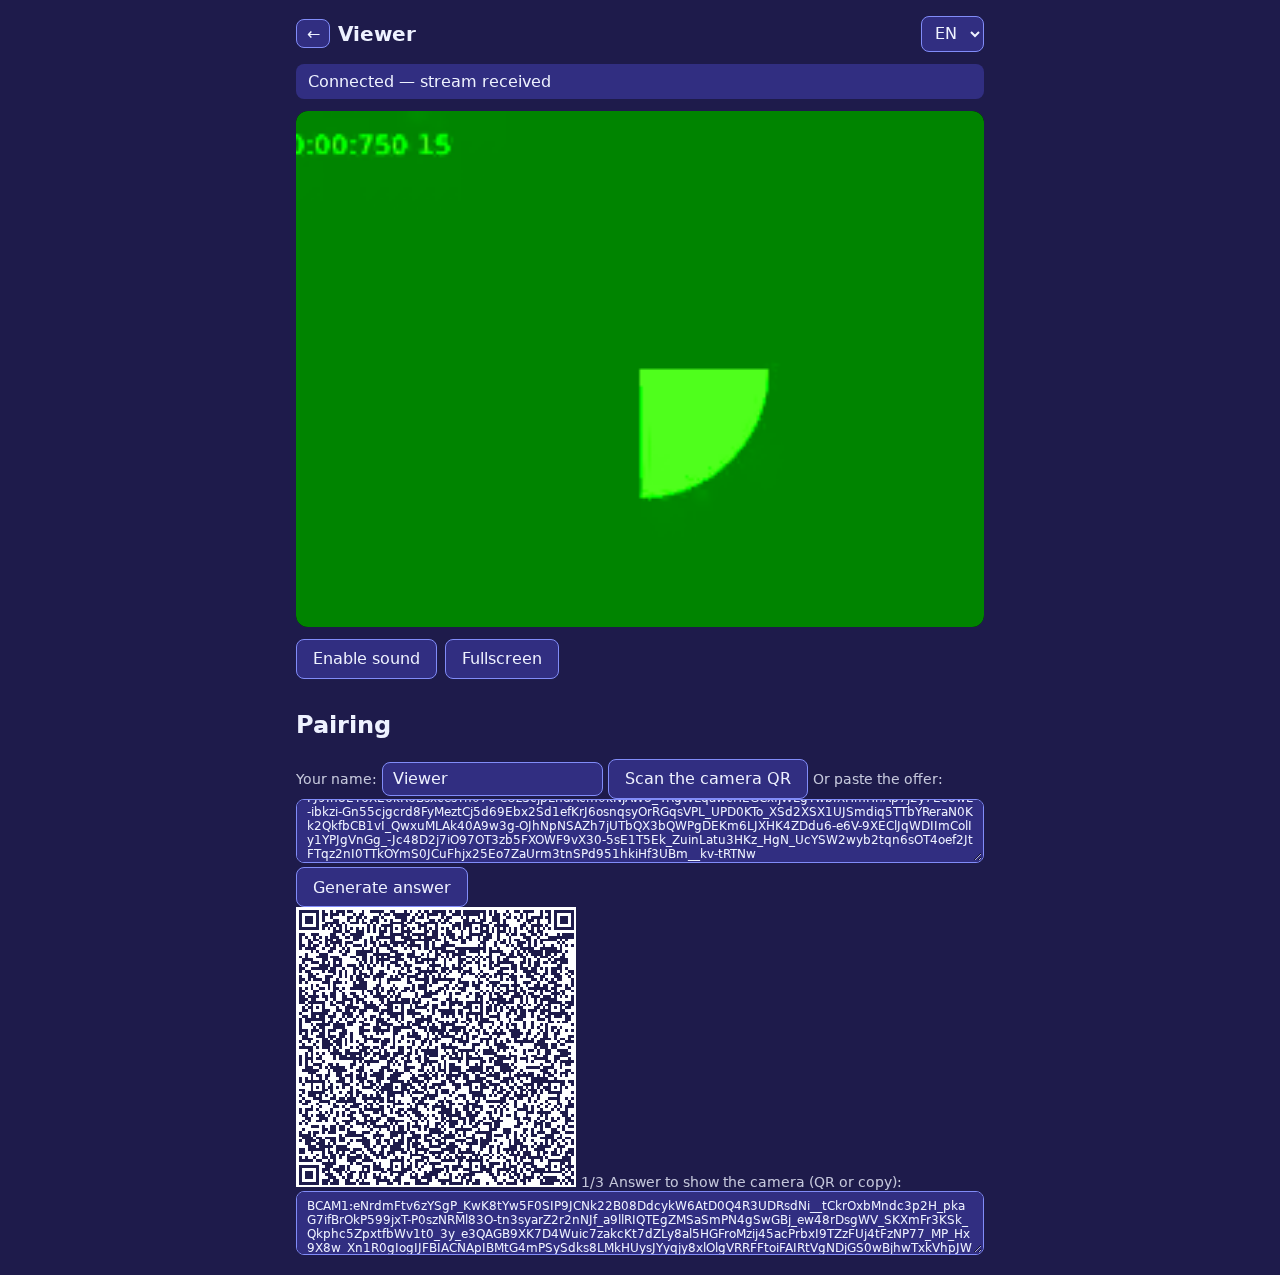
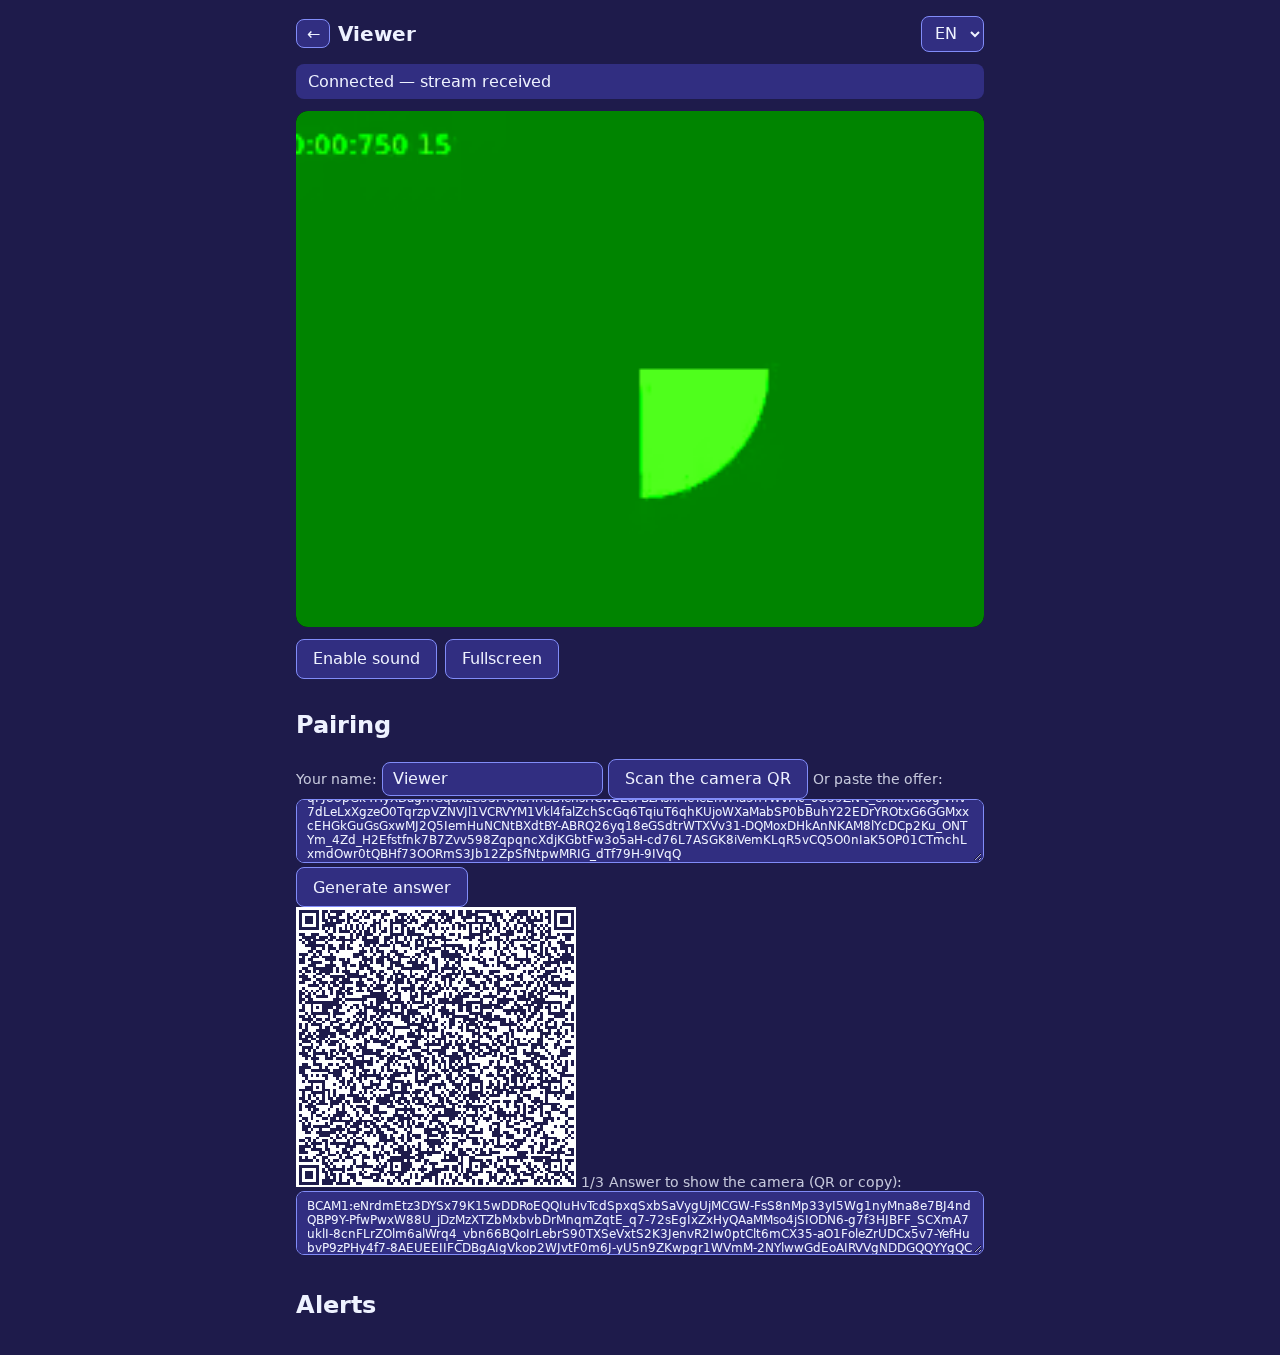
feat(I2.3): alertes de bout en bout côté viewer (bannière + son + vibration + historique), E2E

Changed region(s): [[0.2188, 0.4588, 0.7812, 1.0], [0.2188, 0.0, 0.7812, 0.1224], [0.5, 0.2447, 0.625, 0.3976]]

diff --git a/src/shared/alerts.ts b/src/shared/alerts.ts
@@ -1,0 +1,51 @@
+import { t } from './i18n';
+import type { AlertKind } from './webrtc';
+
+export function playAlertSound(): void {
+  try {
+    const ctx = new AudioContext();
+    const now = ctx.currentTime;
+    for (const start of [now, now + 0.25]) {
+      const osc = ctx.createOscillator();
+      const gain = ctx.createGain();
+      osc.frequency.value = 880;
+      gain.gain.setValueAtTime(0.2, start);
+      gain.gain.exponentialRampToValueAtTime(0.001, start + 0.18);
+      osc.connect(gain);
+      gain.connect(ctx.destination);
+      osc.start(start);
+      osc.stop(start + 0.2);
+    }
+    setTimeout(() => void ctx.close().catch(() => undefined), 1000);
+  } catch {
+    // audio indisponible : on ignore
+  }
+}
+
+export function vibrate(): void {
+  try {
+    navigator.vibrate?.([200, 100, 200]);
+  } catch {
+    // vibration indisponible
+  }
+}
+
+export function alertText(kind: AlertKind): string {
+  return t(kind === 'noise' ? 'alert.noise' : 'alert.motion');
+}
+
+export function showAlertBanner(banner: HTMLElement, kind: AlertKind): void {
+  banner.textContent = alertText(kind);
+  banner.hidden = false;
+  setTimeout(() => {
+    banner.hidden = true;
+  }, 5000);
+}
+
+export function pushAlertHistory(list: HTMLUListElement, kind: AlertKind, ts: number): void {
+  const li = document.createElement('li');
+  const time = new Date(ts).toLocaleTimeString();
+  li.textContent = `${time} — ${alertText(kind)}`;
+  list.prepend(li);
+  while (list.children.length > 20) list.lastElementChild?.remove();
+}

diff --git a/e2e/alerts.spec.ts b/e2e/alerts.spec.ts
@@ -1,0 +1,35 @@
+import { expect, test } from '@playwright/test';
+import { pairViaPaste, startCamera } from './pairing-helper';
+import { shot } from './helpers';
+
+test('alerte bruit de bout en bout : bannière + historique côté viewer', async ({ browser }) => {
+  const camCtx = await browser.newContext();
+  const viewCtx = await browser.newContext();
+  const cam = await camCtx.newPage();
+  const view = await viewCtx.newPage();
+
+  await startCamera(cam);
+  await pairViaPaste(cam, view);
+
+  await cam.evaluate(() => {
+    const bc = (window as unknown as { __babycam?: { sendToAll?: (m: unknown) => void } }).__babycam;
+    bc?.sendToAll?.({ type: 'alert', kind: 'noise', level: -18, ts: Date.now() });
+  });
+
+  await expect(view.locator('#alert-banner')).toBeVisible();
+  await expect(view.locator('#alert-banner')).toContainText(/bruit|noise/i);
+  await expect(view.locator('#alert-history li')).toHaveCount(1);
+  await shot(view, 'I2.3-viewer-alert');
+
+  await cam.evaluate(() => {
+    const bc = (window as unknown as { __babycam?: { sendToAll?: (m: unknown) => void } }).__babycam;
+    bc?.sendToAll?.({ type: 'alert', kind: 'motion', level: 12, ts: Date.now() });
+  });
+
+  await expect(view.locator('#alert-banner')).toContainText(/mouvement|motion/i);
+  await expect(view.locator('#alert-history li')).toHaveCount(2);
+  await shot(view, 'I2.3-viewer-alert-motion');
+
+  await camCtx.close();
+  await viewCtx.close();
+});

diff --git a/src/pages/viewer/main.ts b/src/pages/viewer/main.ts
@@ -4,6 +4,7 @@ import { createChunkCollector, decodeMessage, encodeMessage, toQrChunks, type Si
 import { QrScanner } from '../../shared/scanner';
 import { QrCarousel, qs } from '../../shared/ui';
 import { iceServersFromLocation, ViewerPeer, type DataMessage } from '../../shared/webrtc';
+import { playAlertSound, pushAlertHistory, showAlertBanner, vibrate } from '../../shared/alerts';
 
 applyTranslations();
 const langSelect = document.querySelector<HTMLSelectElement>('#lang-select');
@@ -22,6 +23,8 @@ const qrCanvasAnswer = qs<HTMLCanvasElement>('#qr-canvas-answer');
 const qrPosAnswer = qs<HTMLSpanElement>('#qr-pos-answer');
 const answerPayload = qs<HTMLTextAreaElement>('#answer-payload');
 const viewerName = qs<HTMLInputElement>('#viewer-name');
+const alertBanner = qs<HTMLDivElement>('#alert-banner');
+const alertHistory = qs<HTMLUListElement>('#alert-history');
 
 function setStatus(text: string): void {
   status.textContent = text;
@@ -64,6 +67,12 @@ async function applyOffer(): Promise<void> {
   };
   peer.onData = (m) => {
     dataLog.push(m);
+    if (m.type === 'alert') {
+      showAlertBanner(alertBanner, m.kind);
+      playAlertSound();
+      vibrate();
+      pushAlertHistory(alertHistory, m.kind, m.ts);
+    }
   };
   peer.onState = (state) => {
     if (state === 'connected') setStatus(t('viewer.status.connected'));

diff --git a/viewer.html b/viewer.html
@@ -19,6 +19,7 @@
         </select>
       </header>
       <p id="status" class="status" data-i18n="viewer.status.idle">Non appairé</p>
+      <div id="alert-banner" hidden></div>
       <video id="remote" autoplay playsinline></video>
       <div class="controls">
         <button id="unmute-btn" class="btn" data-i18n="viewer.unmute">Activer le son</button>
@@ -39,6 +40,10 @@
           <label class="hint" data-i18n="viewer.answerLabel">Réponse à montrer à la caméra (QR ou copier) :</label>
           <textarea id="answer-payload" readonly></textarea>
         </div>
+      </section>
+      <section id="alerts">
+        <h2 data-i18n="viewer.alerts">Alertes</h2>
+        <ul id="alert-history"></ul>
       </section>
     </main>
     <script type="module" src="./src/pages/viewer/main.ts"></script>

diff --git a/src/shared/i18n.ts b/src/shared/i18n.ts
@@ -47,6 +47,7 @@ export const DICTS: Record<Lang, Record<string, string>> = {
     'viewer.nameLabel': 'Votre nom :',
     'viewer.status.connected': 'Connecté — flux reçu',
     'viewer.status.lost': 'Connexion perdue',
+    'viewer.alerts': 'Alertes',
   },
   en: {
     'app.title': 'Babycam',
@@ -91,6 +92,7 @@ export const DICTS: Record<Lang, Record<string, string>> = {
     'viewer.nameLabel': 'Your name:',
     'viewer.status.connected': 'Connected — stream received',
     'viewer.status.lost': 'Connection lost',
+    'viewer.alerts': 'Alerts',
   },
 };
 
